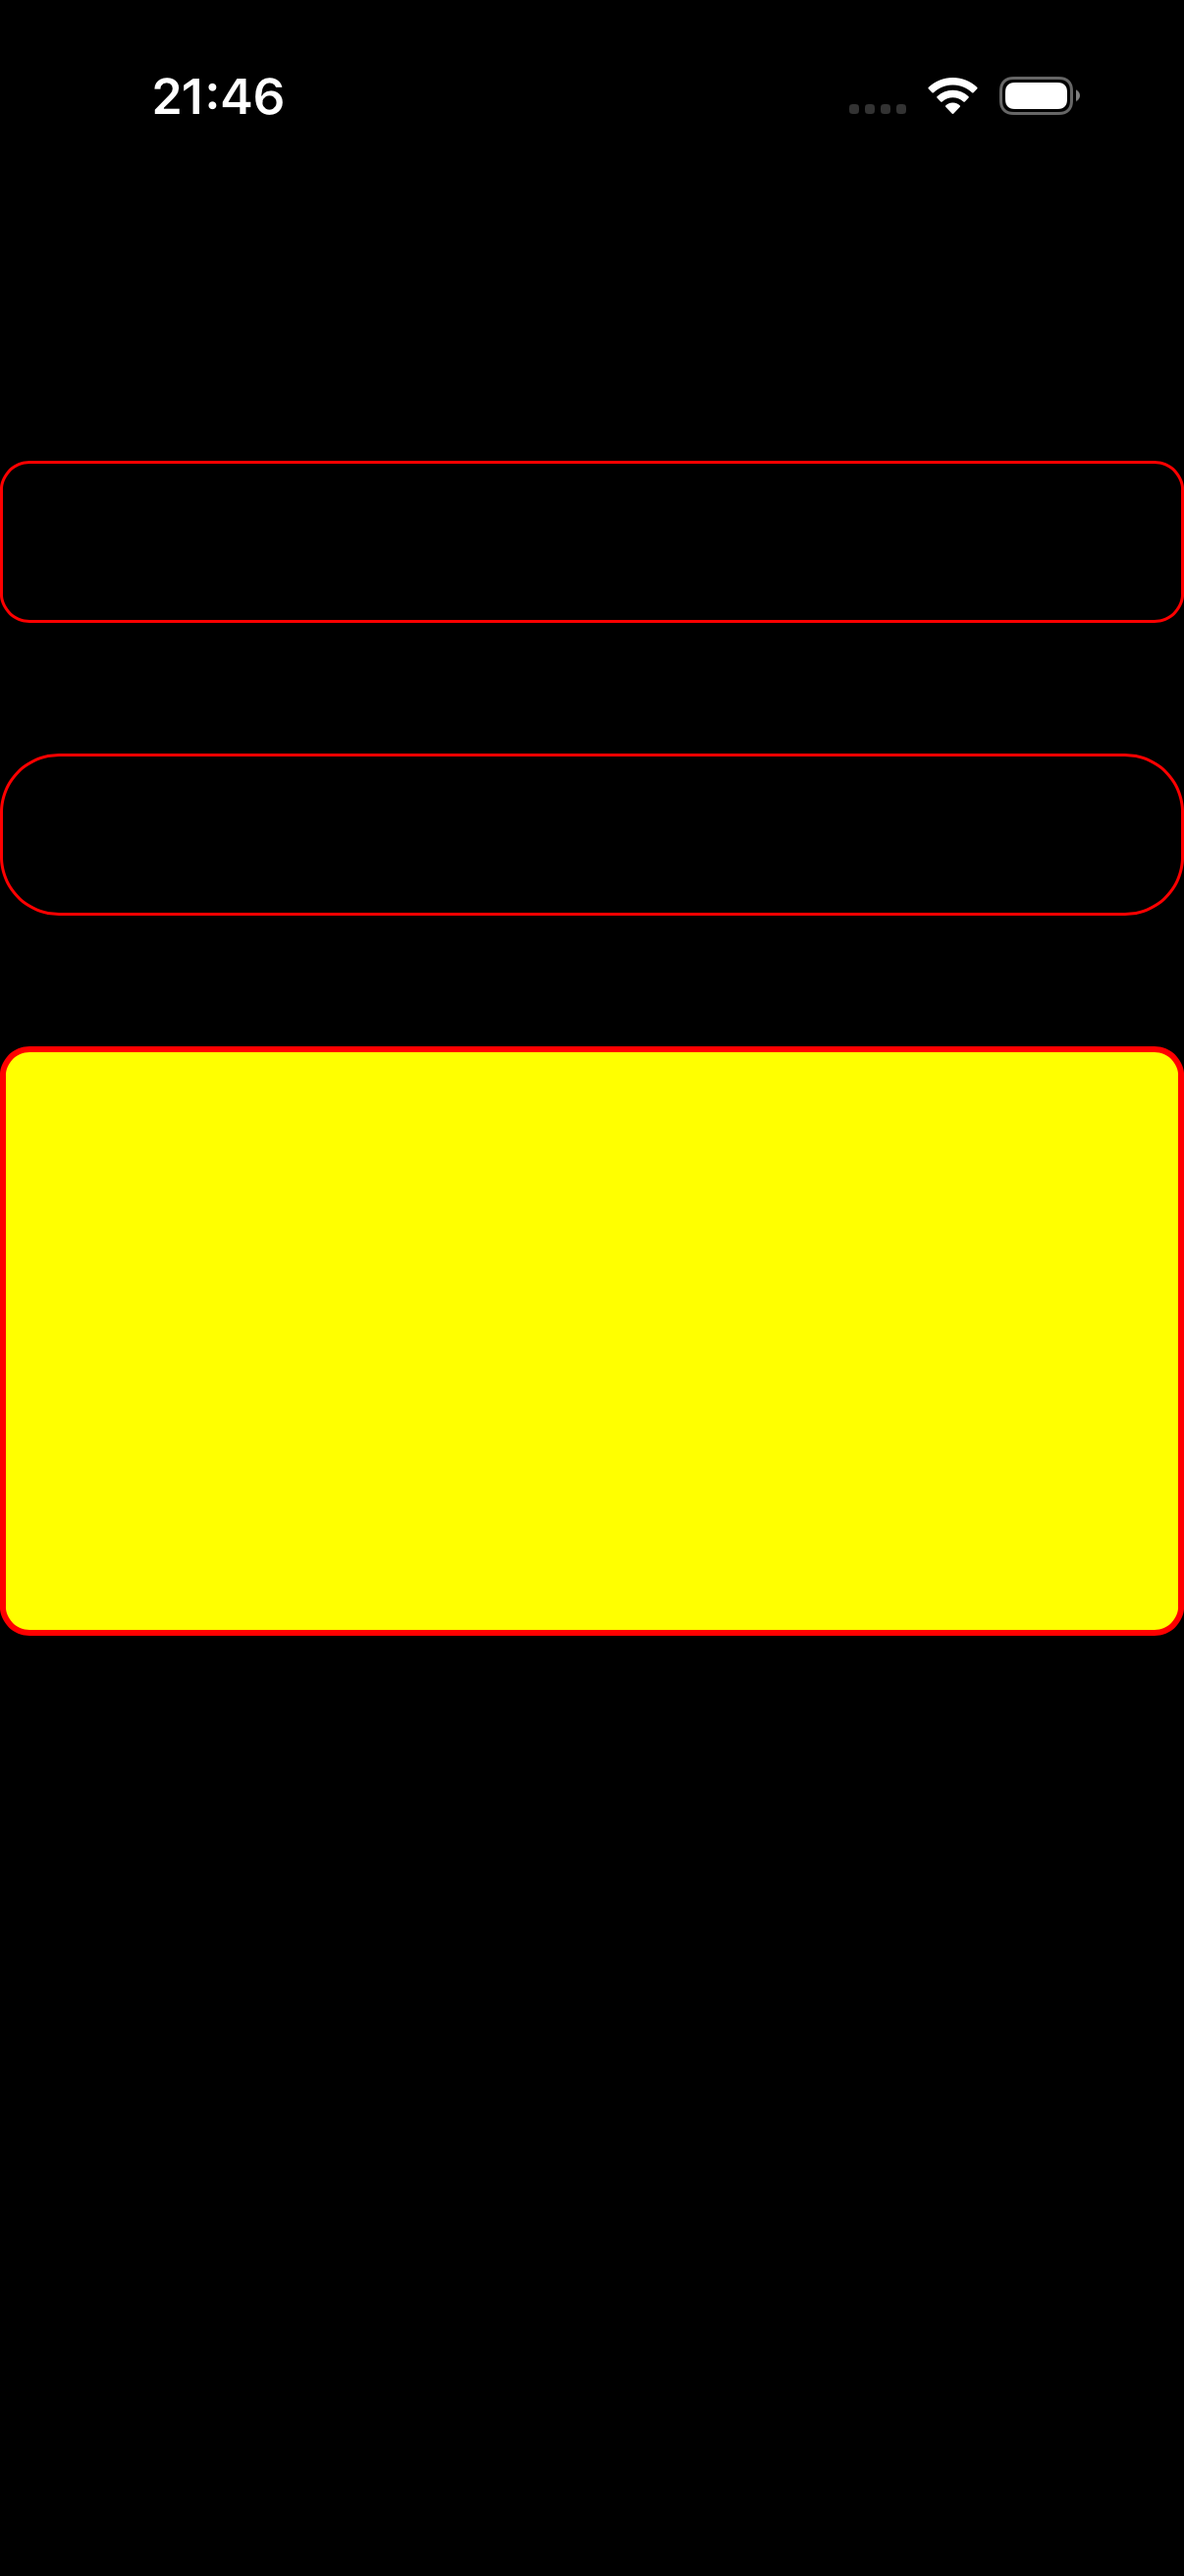
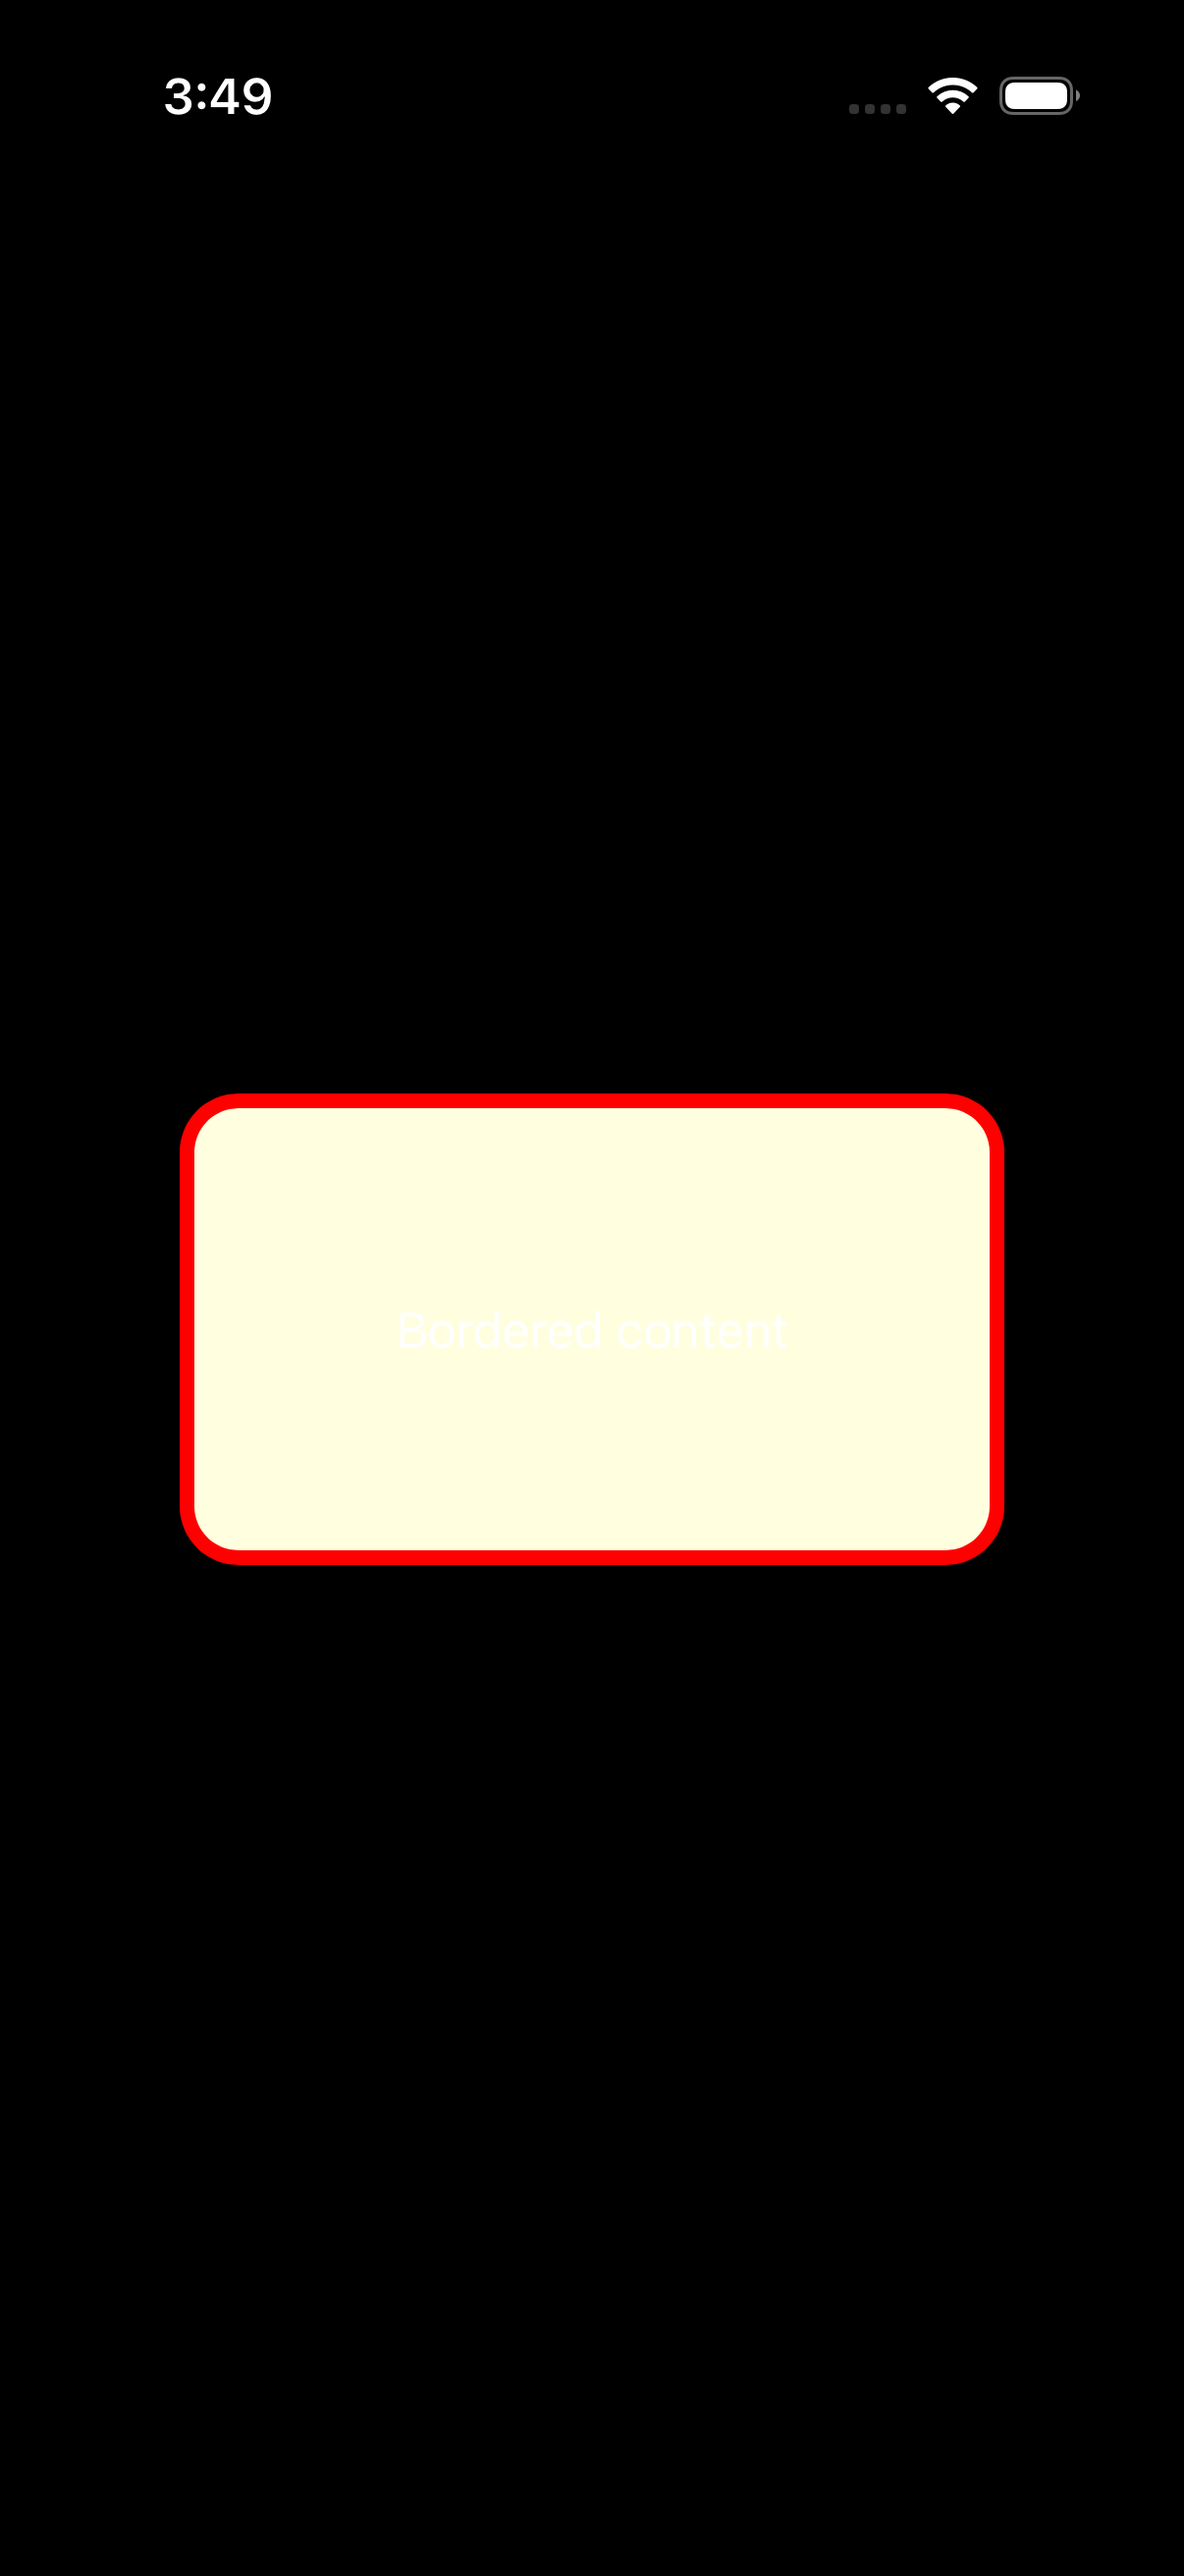
feat(samples): border demo matches maui-compare BorderPage()
Authored the missing border gallery page reproducing ComparePages.
BorderPage() 1:1 (the 'border' key fell back to value-controls): a single
Border centered both ways — red 5pt stroke, RoundRectangle CornerRadius
20, LightYellow background, Padding 16, fixed 280x160 — wrapping a
centered 'Bordered content' Label. Registered in gallery_host; iOS +
macOS galleries compile clean. Verified on-sim both themes: matches C#
exactly, and exercises the border::arrange compute_frame fix
(VerticalOptions=Center now honored).

diff --git a/port/cpp/src/samples/pages/border_page.hpp b/port/cpp/src/samples/pages/border_page.hpp
@@ -1,0 +1,86 @@
+#pragma once
+// maui::samples::border_page — a faithful reproduction of the maui-compare "border" demo
+// (ComparePages.BorderPage()), the shipped-.NET-MAUI reference for the visual-parity comparison: a single
+// Border centered on the page — red 5pt stroke, a RoundRectangle StrokeShape (CornerRadius 20), a
+// LightYellow BackgroundColor, Padding 16, a fixed WidthRequest 280 / HeightRequest 160, and
+// HorizontalOptions/VerticalOptions Center — wrapping a Label ("Bordered content") centered both ways.
+// Kept 1:1 with the C# reference.
+//
+// The page OWNS its whole element tree (the sample_app pattern). It is backend-agnostic — a sample main
+// attaches handlers bottom-up via the hosting layer and hosts page() in a window; the headless/apple/ios
+// test trees exercise the same controls directly.
+
+#include <memory>
+
+#include "maui/controls/border.hpp"
+#include "maui/controls/content_page.hpp"
+#include "maui/controls/label.hpp"
+#include "maui/core/layout_alignment.hpp"
+#include "maui/core/text_alignment.hpp"
+#include "maui/core/thickness.hpp"
+#include "maui/graphics/colors.hpp"
+#include "maui/graphics/shapes/round_rectangle.hpp"
+#include "maui/graphics/solid_paint.hpp"
+#include "maui/hosting/maui_app.hpp"
+
+#include "gallery_attach.hpp"
+
+namespace maui::samples
+{
+    class border_page
+    {
+    public:
+        border_page()
+        {
+            page_.set_title("Border");
+
+            // The centered Label content.
+            caption_.set_text("Bordered content");
+            caption_.set_horizontal_text_alignment(maui::core::text_alignment::center);
+            caption_.set_vertical_text_alignment(maui::core::text_alignment::center);
+
+            // The Border: red 5pt stroke, RoundRectangle CornerRadius 20, LightYellow background, Padding 16,
+            // a fixed 280x160, centered both ways on the page.
+            bordered_.set_stroke(std::make_shared<maui::graphics::solid_paint>(maui::graphics::colors::red));
+            bordered_.set_stroke_thickness(5);
+            bordered_.set_stroke_shape(std::make_shared<maui::graphics::shapes::round_rectangle>(20.0));
+            bordered_.set_background(
+                std::make_shared<maui::graphics::solid_paint>(maui::graphics::colors::light_yellow));
+            bordered_.set_padding(maui::core::thickness(16));
+            bordered_.set_width_request(280);
+            bordered_.set_height_request(160);
+            bordered_.set_horizontal_layout_alignment(maui::core::layout_alignment::center);
+            bordered_.set_vertical_layout_alignment(maui::core::layout_alignment::center);
+            bordered_.set_content(caption_);
+
+            page_.set_content(bordered_);
+        }
+
+        [[nodiscard]] maui::controls::content_page& page()
+        {
+            return page_;
+        }
+
+        // Attach a handler to the caption + the border + the page, then re-host the tree built in the ctor.
+        void attach_handlers(maui::hosting::maui_app& app)
+        {
+            gallery_attach_one(app, caption_, "caption_");
+            gallery_attach_one(app, bordered_, "bordered_");
+            gallery_attach_one(app, page_, "page_");
+
+            gallery_rehost_content(bordered_); // the border hosts the caption
+            gallery_rehost_content(page_);     // the page hosts the border
+        }
+
+        // The owned controls, exposed for tests / the hosting main's bottom-up attachment.
+        [[nodiscard]] maui::controls::border& bordered()
+        {
+            return bordered_;
+        }
+
+    private:
+        maui::controls::content_page page_;
+        maui::controls::border bordered_;
+        maui::controls::label caption_;
+    };
+} // namespace maui::samples

diff --git a/port/cpp/src/samples/gallery_host.hpp b/port/cpp/src/samples/gallery_host.hpp
@@ -106,6 +106,8 @@
 #include "pages/alignment_page.hpp"
 // --- controls showcase (maui-compare ControlsStack reproduction) ---
 #include "pages/controls_stack_page.hpp"
+// --- single centered Border (maui-compare BorderPage reproduction) ---
+#include "pages/border_page.hpp"
 // --- batch 11 (BorderGalleries) ---
 #include "pages/border_alignment_page.hpp"
 #include "pages/border_clip_playground_page.hpp"
@@ -327,6 +329,7 @@
     X("border_layout", border_layout_page)                                                                             \
     X("alignment", alignment_page)                                                                                     \
     X("controls_stack", controls_stack_page)                                                                           \
+    X("border", border_page)                                                                                           \
     X("border_alignment", border_alignment_page)                                                                       \
     X("border_clip_playground", border_clip_playground_page)                                                           \
     X("borderless", borderless_page)                                                                                   \

diff --git a/port/cpp/docs/comparison/README.md b/port/cpp/docs/comparison/README.md
@@ -2,7 +2,7 @@
 
 Theme-matched iOS comparison: each page rendered by **real .NET MAUI** vs the **C++ port**, on the same iPhone 17 simulator, compared **light-vs-light** and **dark-vs-dark**. Both stacks render native-default controls + the system font (the C# app's `dotnet new maui` default `Styles.xaml` + OpenSans are stripped; appearance forced via `MAUI_THEME` / `MAUI_APPEARANCE`). Goal: pixel-perfect parity, fixed example-by-example.
 
-**Progress: 0 / 172 🟢 matched** · 39 🟡 minor · 44 🔴 diff · 89 ⬜ pending
+**Progress: 0 / 172 🟢 matched** · 40 🟡 minor · 43 🔴 diff · 89 ⬜ pending
 
 Status legend: 🟢 pixel-match (both themes) · 🟡 minor diff · 🔴 notable diff to fix · ⬜ not yet reviewed. Per-theme verdicts in `parity_status.json`.
 
@@ -70,7 +70,7 @@ Rows are in **fix order** (top → bottom): foundational single controls first (
 | 56 | Shape App Theme | ⬜<br>L:pending<br>D:pending | ![](csharp_ios_light/shape_app_theme.png) | ![](cpp_ios_light/shape_app_theme.png) | ![](csharp_ios_dark/shape_app_theme.png) | ![](cpp_ios_dark/shape_app_theme.png) |
 | 57 | Invalidate Brush | ⬜<br>L:pending<br>D:pending | ![](csharp_ios_light/invalidate_brush.png) | ![](cpp_ios_light/invalidate_brush.png) | ![](csharp_ios_dark/invalidate_brush.png) | ![](cpp_ios_dark/invalidate_brush.png) |
 | 58 | Gradient brushes | ⬜<br>L:pending<br>D:pending | ![](csharp_ios_light/gradient.png) | ![](cpp_ios_light/gradient.png) | ![](csharp_ios_dark/gradient.png) | ![](cpp_ios_dark/gradient.png) |
-| 59 | Border | 🔴<br>L:diff<br>D:diff | ![](csharp_ios_light/border.png) | ![](cpp_ios_light/border.png) | ![](csharp_ios_dark/border.png) | ![](cpp_ios_dark/border.png) |
+| 59 | Border | 🟡<br>L:minor<br>D:minor | ![](csharp_ios_light/border.png) | ![](cpp_ios_light/border.png) | ![](csharp_ios_dark/border.png) | ![](cpp_ios_dark/border.png) |
 | 60 | Border Stroke | 🔴<br>L:diff<br>D:diff | ![](csharp_ios_light/border_stroke.png) | ![](cpp_ios_light/border_stroke.png) | ![](csharp_ios_dark/border_stroke.png) | ![](cpp_ios_dark/border_stroke.png) |
 | 61 | Border Layout | 🔴<br>L:diff<br>D:diff | ![](csharp_ios_light/border_layout.png) | ![](cpp_ios_light/border_layout.png) | ![](csharp_ios_dark/border_layout.png) | ![](cpp_ios_dark/border_layout.png) |
 | 62 | Border Playground | 🔴<br>L:diff<br>D:diff | ![](csharp_ios_light/border_playground.png) | ![](cpp_ios_light/border_playground.png) | ![](csharp_ios_dark/border_playground.png) | ![](cpp_ios_dark/border_playground.png) |
